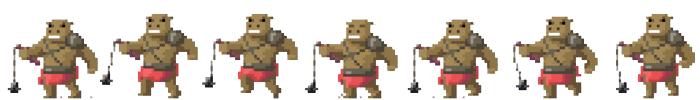
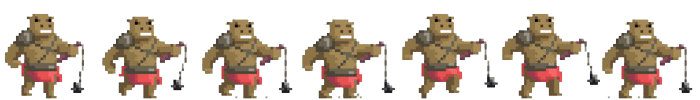
true bot

diff --git a/src/GameMain.java b/src/GameMain.java
@@ -11,7 +11,6 @@ import javafx.scene.input.KeyCode;
 import javafx.scene.layout.Pane;
 import javafx.stage.Stage;
 import javafx.util.Duration;
-
 import java.util.ArrayList;
 import java.util.HashMap;
 
@@ -20,6 +19,7 @@ public class GameMain extends Application {
 	public static ArrayList<Trap> killers = new ArrayList<>();
 	public static ArrayList<Monster> monsters = new ArrayList<>();
 	private HashMap<KeyCode, Boolean> keys = new HashMap<>();
+	private int stage = 1;
 
 	Image backgroundImg = new Image(getClass().getResourceAsStream("BG.jpg"));
 	ImageView background = new ImageView(backgroundImg);
@@ -29,8 +29,6 @@ public class GameMain extends Application {
 	public static final int CHAR_SIZE_X = 65;
 	public static final int CHAR_SIZE_Y = 65;
 
-	private int state;
-	private int monsterState = 1;
 	public static final int IDLE = 0;
 	public static final int CLIMB = 1;
 
@@ -44,26 +42,24 @@ public class GameMain extends Application {
 	GraphicsContext gc;
 
 	private void initContent(String[] level) {
-		// ความยาวความกว้างแมพ
 		background.setFitHeight(14 * BLOCK_SIZE);
 		background.setFitWidth(70 * BLOCK_SIZE);
-		levelData.setBlock(level);
-		player.walk();
+		levelData.setBlock(stage);
+		player.run();
 		player.setTranslateX(0);
 		player.setTranslateY(400);
 		player.translateXProperty().addListener((obs, old, newValue) -> {
 			int offset = newValue.intValue();
-			// background กับ root เดินตาม
 			if (offset > 640 && offset < levelData.levelWidth - 640) {
 				gameRoot.setLayoutX(-(offset - 640));
 				background.setLayoutX(-(offset - 640));
 			}
 		});
-		// *****************************************************
+		// ************** Create the AI here. ****************
 		minotaur = new Minotaur();
-		minotaur.walk();
-		minotaur.setTranslateX(300);
-		minotaur.setTranslateY(450);
+		minotaur.run();
+		minotaur.setTranslateX(1500);
+		minotaur.setTranslateY(480);
 		// *****************************************************
 		canvas = new Canvas(3392, 620);
 		gc = canvas.getGraphicsContext2D();
@@ -79,16 +75,9 @@ public class GameMain extends Application {
 	}
 
 	private void update() {
-		
 		minotaur.animation.play();
-		if (minotaur.isStructed) {
-			minotaur.setScaleX(1);
-			minotaur.walkX(-2 * monsterState);
-		} else {
-			minotaur.setScaleX(-1);
-			minotaur.walkX(2 * monsterState);
-		}
-		
+		minotaur.walkX(1 * minotaur.getDirection());
+
 		if (isPressed(KeyCode.UP) && player.getTranslateY() >= 5) {
 			player.jumpPlayer();
 		}
@@ -141,7 +130,7 @@ public class GameMain extends Application {
 			keys.put(event.getCode(), false);
 			player.animation.stop();
 		});
-		primaryStage.setTitle("Escape");
+		primaryStage.setTitle("ESCAPE");
 		primaryStage.setScene(scene);
 		primaryStage.show();
 		AnimationTimer timer = new AnimationTimer() {

diff --git a/src/LevelData.java b/src/LevelData.java
@@ -8,8 +8,16 @@ public class LevelData {
 	public LevelData() {
 	}
 
-	public void setBlock(String[] LEVEL) {
-		level = new String[][] { LEVEL };
+	public void setBlock(int stage) {
+		
+		if (stage == 1) {
+			level = new String[][] { LevelMap.LEVEL1 };
+		} else if (stage == 2) {
+			level = new String[][] { LevelMap.LEVEL2 };
+		} else {
+			level = new String[][] { LevelMap.LEVEL3 };
+		}
+		
 		levelWidth = level[levelNumber][0].length() * BLOCK_SIZE;
 		for (int i = 0; i < level[levelNumber].length; i++) {
 			String line = level[levelNumber][i];

diff --git a/src/Entity.java b/src/Entity.java
@@ -4,7 +4,7 @@ import javafx.scene.image.ImageView;
 import javafx.scene.layout.Pane;
 
 public abstract class Entity extends Pane implements Movable {
-	
+
 	protected int count;
 	protected int columns;
 	protected int offsetX;
@@ -16,4 +16,5 @@ public abstract class Entity extends Pane implements Movable {
 
 	@Override
 	public abstract void walkX(int value);
+
 }

diff --git a/src/Minotaur.java b/src/Minotaur.java
@@ -1,4 +1,5 @@
 import javafx.geometry.Point2D;
+import javafx.scene.Node;
 import javafx.scene.image.Image;
 import javafx.scene.image.ImageView;
 
@@ -9,5 +10,4 @@ public class Minotaur extends Monster {
 		super(7, 7, 0, 0, 100, 100);
 		imageView = new ImageView(new Image(getClass().getResourceAsStream("minotaur.png")));
 	}
-
 }
